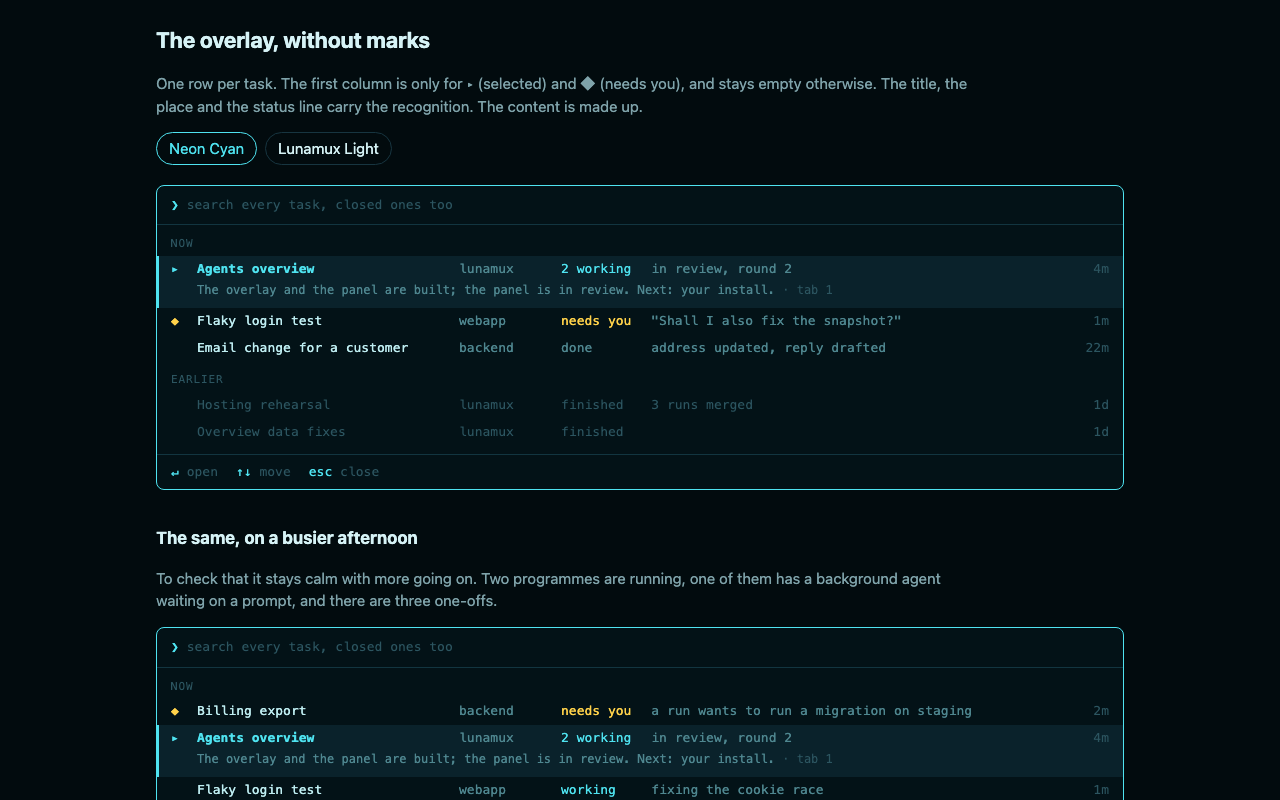
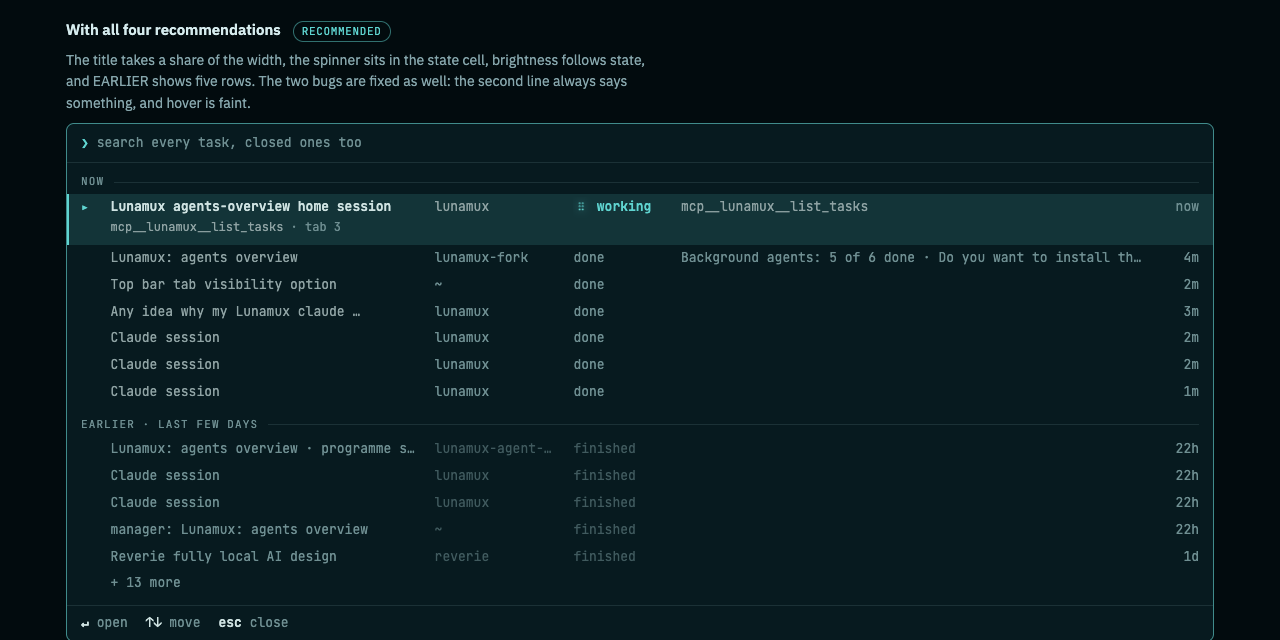
Describe the colour, glyph and EARLIER cut in the docs and reshoot the overview

diff --git a/docs/tasks.md b/docs/tasks.md
@@ -17,7 +17,9 @@ There are two ways a session gets into a task, and they can be mixed:
 The overview is one aligned list with **one row per task**. A session that is in no task is a task
 of one, so it is a row too; a session that belongs to a task is never a row of its own, whether it
 runs in a tab or in the background. A row has no mark but one: **◆** at the start of a task that
-needs the person (the selected row shows **▸** there instead).
+needs the person (the selected row shows **▸** there instead). Rows are told apart by brightness
+and by the colour of the state word: a task that works or needs the person has a bright title, a
+done one a mid-grey title, and everything in EARLIER a dim one.
 
 A row reads, left to right: the **title**, **where** (the task's repo, else the folder the session
 runs in, home as `~`), one **state word**, a **detail** and the **age**. The state word is one of:
@@ -25,10 +27,13 @@ runs in, home as `~`), one **state word**, a **detail** and the **age**. The sta
 | Word | When |
 |---|---|
 | **needs you** (yellow) | any session of the task waits for the person |
-| **N working** | two or more sessions are moving, background ones counted |
-| **working** | one session is moving |
-| **done** | the task is in NOW and nothing is moving or waiting |
-| **finished** | the task is in EARLIER and nothing is moving or waiting |
+| **N working** (cyan, with the moving braille glyph before it) | two or more sessions are moving, background ones counted |
+| **working** (cyan, with the glyph) | one session is moving |
+| **done** (muted green) | the task is in NOW and nothing is moving or waiting |
+| **finished** (dim) | the task is in EARLIER and nothing is moving or waiting |
+
+The glyph is the app's own working mark: four braille frames that cross-fade
+about three times a second. With reduced motion it is a still frame.
 
 A session is *moving* while it works and has shown a sign of life in the last five minutes (for a
 session Lunamux does not host: while its file was refreshed in the last twenty). One that works but
@@ -44,7 +49,7 @@ the panel is narrower than 700px.
   session ↵ opens in the tab strip, **· tab 2 in Work** when it is in another world). A session in
   a background tab has no tab number, so that part is left out. The line also carries the resume
   note, "nothing to jump to: this session is not in a Lunamux pane", and the message of a resume
-  that failed.
+  that failed. A row that has nothing to put there has no second line, never an empty one.
 - **↵ opens the task's own session.** Every task can have one session that speaks for it: the one
   that made the task, or the one an agent names with `set_task_lead`. ↵ jumps to its pane. When it
   runs in a background tab (see below) ↵ opens its read-only peek instead. When it is gone, ↵ runs
@@ -108,9 +113,10 @@ the panel is narrower than 700px.
   and then moves to EARLIER. A task whose sessions have all ended is in EARLIER after the same
   ten minutes.
 - **EARLIER is two bands, newest first, dimmed.** **LAST FEW DAYS** holds the rows last active
-  within three days, all of them. **LAST TWO WEEKS** holds those between three and fourteen days
-  old; it shows the first five and a **+ N more** line (a click on it shows the rest). A band
-  with nothing in it has no heading. Older rows are not listed, but search still finds them.
+  within three days. **LAST TWO WEEKS** holds those between three and fourteen days old. Together
+  they show the newest five rows, then one **+ N more** line (a click on it, or ↓ on the last row,
+  shows the rest). A band with nothing to show has no heading. Older rows are not listed, but
+  search still finds them, and search is never cut.
   - A task's age is its newest session's: a task with a session from yesterday and one from ten
     days ago is in the first band. A single session is a task of its own.
   - Both edges are inclusive on the older side: exactly three days old is still in the first band,
